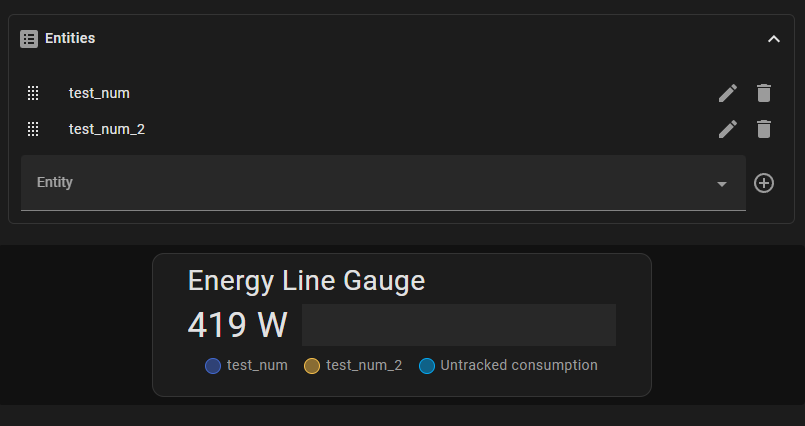
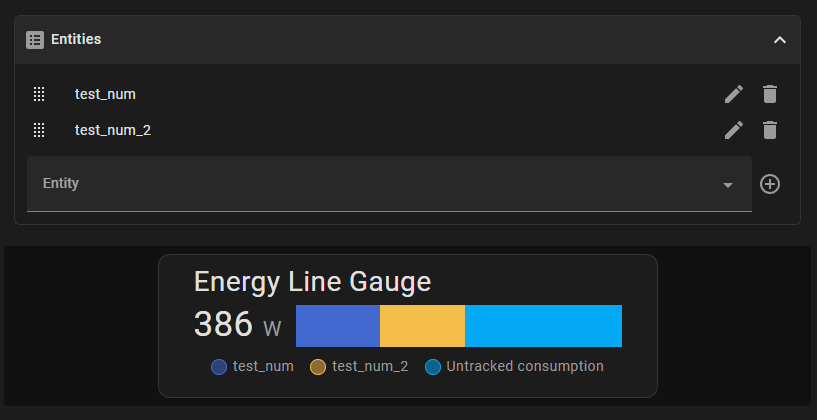
Update README.md + bug fix
updated images to show current

set max to 100. it was preciously set to the first chosen entity and there was no clear way to change it from UI (the line would just not work)

diff --git a/src/editor/editor.ts b/src/editor/editor.ts
@@ -430,9 +430,9 @@ export class EnergyLineGaugeEditor extends LitElement implements LovelaceCardEdi
                 `ui.panel.lovelace.editor.card.statistic.stat_types`
             );
         case "line_text_size":
-            return this.hass.localize(
+            return `${this.hass.localize(
                 `ui.panel.lovelace.editor.card.generic.icon_height`
-            );
+            )} (rem)`;
         default:
           return schema.name;
       }

diff --git a/src/energy-line-gauge.ts b/src/energy-line-gauge.ts
@@ -80,6 +80,8 @@ export class EnergyLineGauge extends LitElement {
       type: "custom:energy-line-gauge",
       entity: foundEntities[0],
       title: "Energy Line Gauge",
+      min: 0,
+      max: 100,
       entities: [
         {entity: foundEntities[1], color: toRGB(COLORS[0])},
         {entity: foundEntities[2], color: toRGB(COLORS[1])},

diff --git a/README.md b/README.md
@@ -207,9 +207,12 @@ The only required field is `entity`. The rest of the fields are optional. Color 
 | `name`               |    string     |                                          Plug 0                                          | The name of the entity to be displayed in the legend.                                                          |
 | `icon`               |    string     |                                        mdi:flash                                         | Display an icon instead of the colored circle. (icon will also be colored)                                     |
 | `cutoff`             |    number     |                                            10                                            | Any entity with a value below this will not be displayed.                                                      |
+| `unit`               |    string     |                                            kW                                            | String that is added to the end of entity state.                                                               |
+| `multiplier`         |    number     |                                          0.001                                           | Entity state will be multiplied by this number. Useful when you have entities in kW and W.                     |
+| `precision`          |    number     |                                            1                                             | Will override main precision pre entity.                                                                       |
 | `color`              | string or rgb |                                           auto                                           | The color of the gauge and legend. (auto: Home Assistant Energy panel - the same order)                        |                                                                 
 | `state_content`      |   string[]    |                                    ['name', 'state']                                     | ['name','state','last_changed','last_updated', 'percentage'] - Order matters. Info will be separated by a dot. |
-| `line_state_content` |   string[]    |                                 ['percentage', 'state']                                  | ['name','state','last_changed','last_updated', 'percentage'] - Order matters. Info will be separated by a dot.                                                                                                               |
+| `line_state_content` |   string[]    |                                 ['percentage', 'state']                                  | ['name','state','last_changed','last_updated', 'percentage'] - Order matters. Info will be separated by a dot. |
 | `tap_action`         | Action Config | [Configuration](https://www.home-assistant.io/lovelace/actions/#configuration-variables) | Single tap action for item.                                                                                    |
 | `hold_action`        | Action Config | [Configuration](https://www.home-assistant.io/lovelace/actions/#configuration-variables) | Hold action for item.                                                                                          |
 | `double_tap_action`  | Action Config | [Configuration](https://www.home-assistant.io/lovelace/actions/#configuration-variables) | Double tap action for item.                                                                                    |
